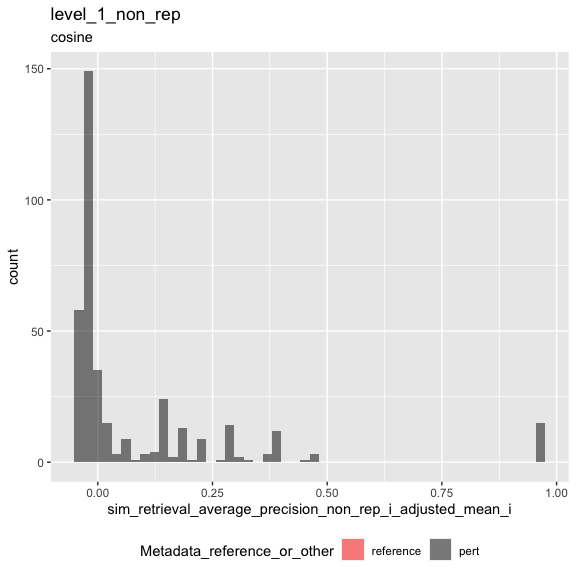
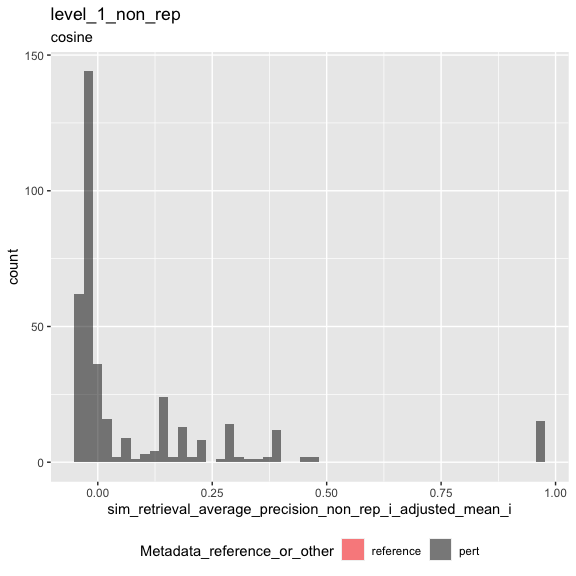
Set seed right

diff --git a/matric/results/d895866b/4.inspect_metrics.md b/matric/results/d895866b/4.inspect_metrics.md
@@ -44,6 +44,7 @@ cat(yaml::as.yaml(params))
 
     ## input_metrics_file_prefix: results/d895866b/metrics
     ## background_type: non_rep
+    ## random_seed: 42
 
 ``` r
 type <- params$background_type
@@ -376,21 +377,21 @@ null_thresholds
 |   m |   n | sim_stat_average_precision_null | sim_stat_r\_precision_null |
 |----:|----:|--------------------------------:|---------------------------:|
 |   1 | 287 |                       0.0344828 |                  0.0000000 |
-|   2 | 287 |                       0.0444840 |                  0.0000000 |
-|   3 | 287 |                       0.0481555 |                  0.0000000 |
-|   4 | 287 |                       0.0581559 |                  0.0000000 |
-|   9 | 287 |                       0.0773290 |                  0.1111111 |
-|   6 | 287 |                       0.0663253 |                  0.1666667 |
-|   5 | 287 |                       0.0632238 |                  0.0000000 |
-|   8 | 287 |                       0.0739378 |                  0.1250000 |
+|   2 | 287 |                       0.0438459 |                  0.0000000 |
+|   3 | 287 |                       0.0507361 |                  0.0000000 |
+|   4 | 287 |                       0.0554044 |                  0.0000000 |
+|   9 | 287 |                       0.0795844 |                  0.1111111 |
+|   6 | 287 |                       0.0663900 |                  0.1666667 |
+|   5 | 287 |                       0.0627438 |                  0.0000000 |
+|   8 | 287 |                       0.0719994 |                  0.1250000 |
 |   1 | 286 |                       0.0344828 |                  0.0000000 |
-|   4 | 286 |                       0.0557726 |                  0.0000000 |
-|   3 | 286 |                       0.0494580 |                  0.0000000 |
-|   5 | 286 |                       0.0619830 |                  0.0000000 |
-|   7 | 287 |                       0.0713697 |                  0.1428571 |
-|   2 | 286 |                       0.0433479 |                  0.0000000 |
-|   8 | 286 |                       0.0741424 |                  0.1250000 |
-|   6 | 286 |                       0.0656703 |                  0.1666667 |
+|   4 | 286 |                       0.0557231 |                  0.0000000 |
+|   3 | 286 |                       0.0514284 |                  0.0000000 |
+|   5 | 286 |                       0.0621443 |                  0.0000000 |
+|   7 | 287 |                       0.0681466 |                  0.1428571 |
+|   2 | 286 |                       0.0435604 |                  0.0000000 |
+|   8 | 286 |                       0.0721083 |                  0.1250000 |
+|   6 | 286 |                       0.0635022 |                  0.1666667 |
 
 ``` r
 join_vars <- c("m", "n")
@@ -508,8 +509,8 @@ level_1_metrics_null_adjusted %>%
 
 | above_threshold |   n |
 |:----------------|----:|
-| FALSE           | 219 |
-| TRUE            | 159 |
+| FALSE           | 217 |
+| TRUE            | 161 |
 
 ``` r
 result <-

diff --git a/matric/results/d895866b/0.knit-notebooks.md b/matric/results/d895866b/0.knit-notebooks.md
@@ -301,7 +301,8 @@ parameters <-
     params$experiment,
     list(
       input_metrics_file_prefix = input_metrics_file_prefix,
-      background_type = background_type
+      background_type = background_type,
+      random_seed = random_seed
     )
   )
 
